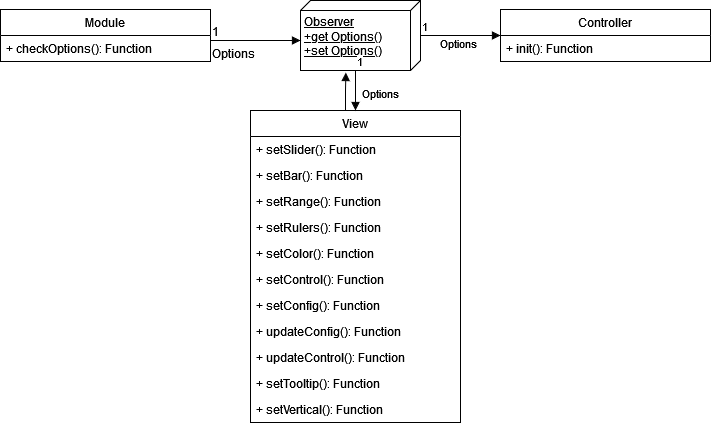
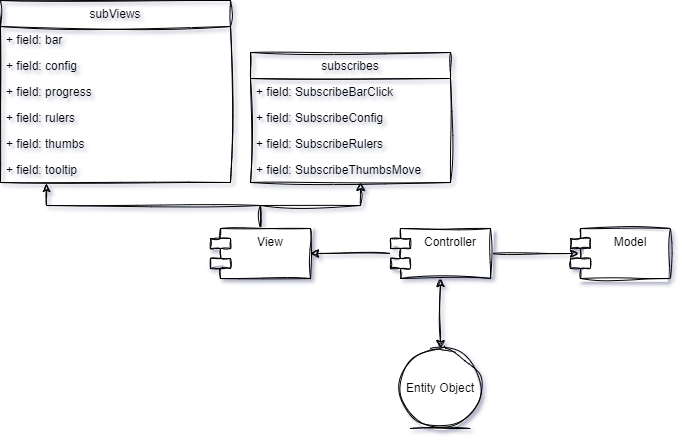
readme

diff --git a/README.md b/README.md
@@ -1,5 +1,4 @@
-<h2>Slider Plugin (beta)</h2>
-<h6>Development in progress...</h6>
+<h2>Slider Plugin</h2>
 <hr>
 <a href="https://eclipsemode.github.io/Range-slider-app/" target="_blank">--- Watch Demo ---</a>
 <h3>Libraries:</h3>
@@ -47,9 +46,9 @@
 <h3>Slider initialization:</h3>
 <hr>
 <pre>
-import { Slider };
+import Controller from './Controller';
 
-new Slider('.slider', {...})
+new Controller('.slider', {...options})
 </pre>
 
 <h4>User options: </h4>
@@ -115,6 +114,21 @@ new Slider('.slider', {...})
 <td>true</td>
 <td>Show tooltip above thumbs</td>
 </tr>
+<tr>
+<td>configPanel</td>
+<td>boolean</td>
+<td>true</td>
+<td>Show config panel</td>
+</tr>
+<tr>
+<td>color</td>
+<td>string</td>
+<td>{firstColor?: #ffe53b;
+    secondColor?: #ff2525;
+    textColor?: #ffe53b;
+    thumbColor?: #ffe53b; }</td>
+<td>Set color</td>
+</tr>
 </tbody>
 </table>
 
@@ -122,7 +136,7 @@ new Slider('.slider', {...})
 <hr>
 Architecture of slider based on MVP pattern. 
 Application divided on 3 components - <code>Model</code>, <code>View</code>, <code>Controller</code>, 
-and this components synchronized with <code>Observer</code> subscriptions.
+and this components synchronized with subscriptions. View architecture divided on subscriptions and subViews, which in turn connected in main View.ts.
 
 <h3>UML:</h3>
 <hr>
